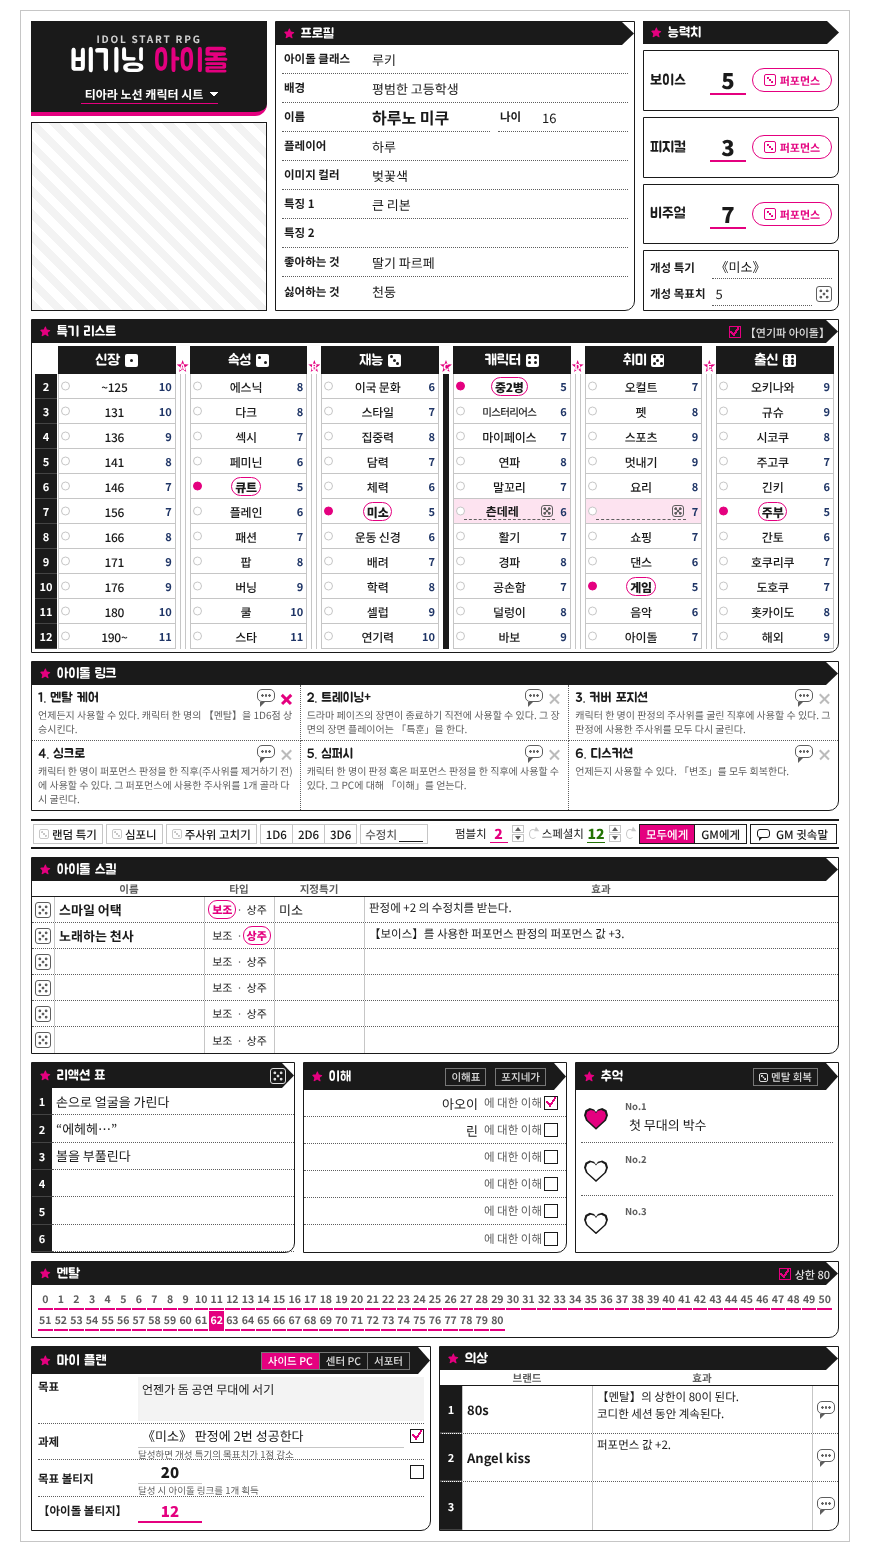
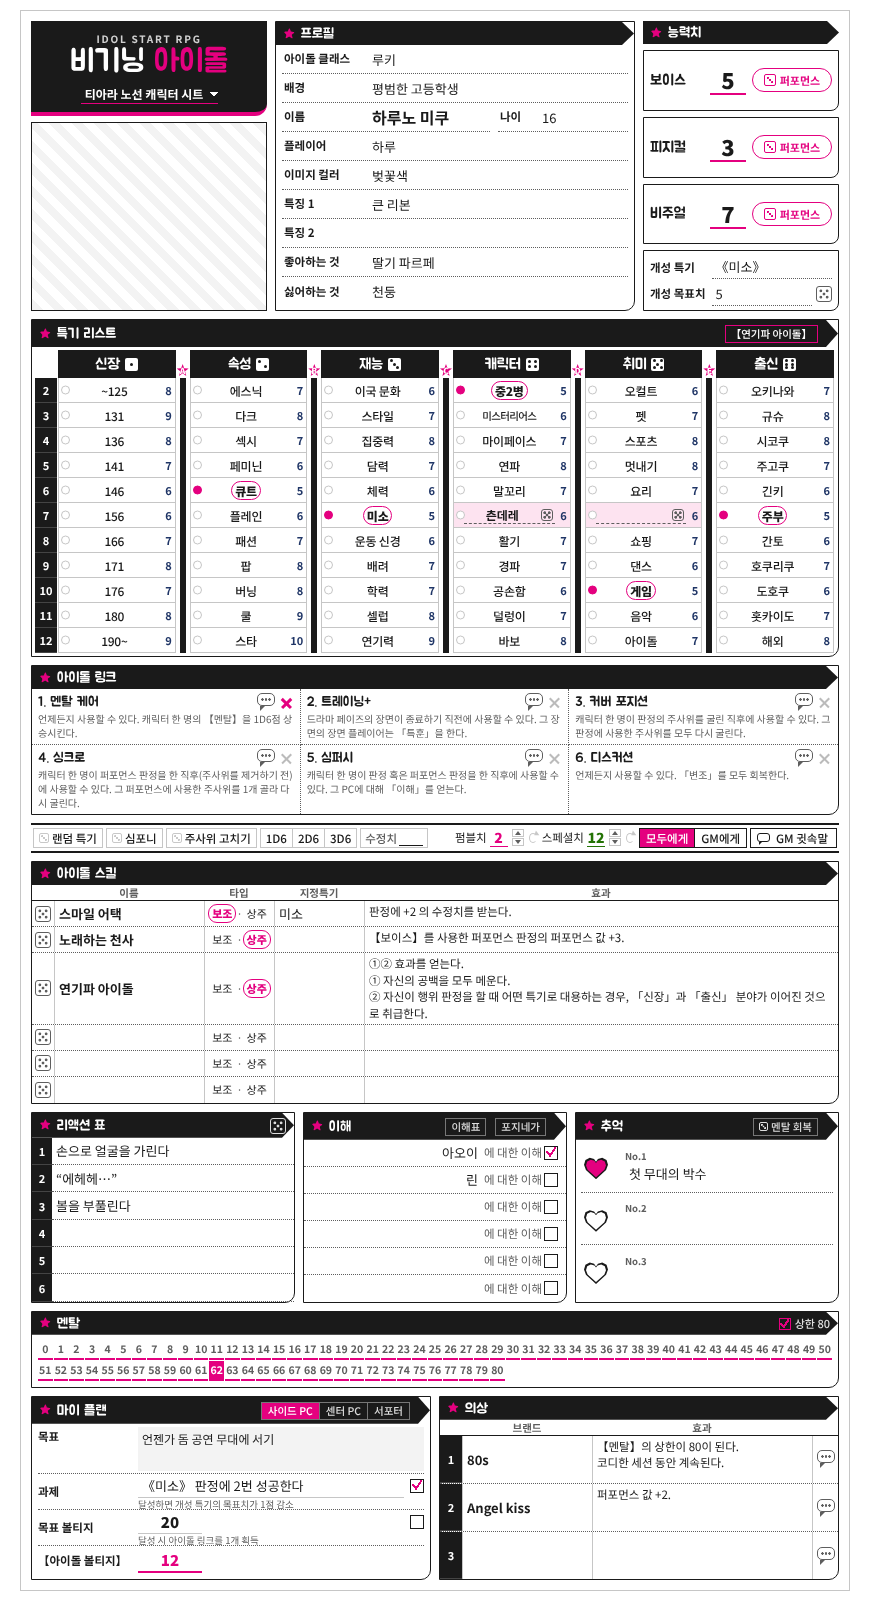
Beginning Idol: acting idol follows the idol skill name (rulebook p.143)
- Typing 연기파 아이돌 in an idol skill name turns it on, as the Shinobigami sheet does with ninpo names
- Effect 1 fills every gap, effect 2 joins height and birthplace with a seam of 1 (rulebook example: height 12 from birthplace 12 = target 6)
- The header checkbox becomes a status tag; tests 88 pass

Claude-Session: https://claude.ai/code/session_0199V9dAANERLdNjnvpJJAzb

diff --git a/beginningidol/roll20/sheet/beginningidol.html b/beginningidol/roll20/sheet/beginningidol.html
@@ -1,9 +1,11 @@
 <!-- 비기닝 아이돌 (한국어) — 세로 830px. 배치: 공식 기본 룰북 캐릭터 시트(티아라 노선 · 크라운 노선)를 세로로, 유닛 시트는 룰북 5·01 도해대로. 목업: beginningidol/roll20/mockup.html
      @ 표시 자리는 build.py 가 채운다. .bi 앞의 숨은 칸은 형제 선택자용 거울:
-     t-route 노선(강조색 · 별 모양 · unit = 유닛 시트) · t-role 사이드 PC / 센터 PC / 서포터 · t-m80 멘탈 상한 80 -->
+     t-route 노선(강조색 · 별 모양 · unit = 유닛 시트) · t-role 사이드 PC / 센터 PC / 서포터 · t-m80 멘탈 상한 80
+     t-act 아이돌 스킬에 【연기파 아이돌】이 있음 (워커가 이름을 보고 켬 → 공백을 모두 칠한 것으로 보임) -->
 <input type="hidden" class="t-route" name="attr_route" value="tiara">
 <input type="hidden" class="t-role" name="attr_pc_role" value="side">
 <input type="hidden" class="t-m80" name="attr_mental80" value="0">
+<input type="hidden" class="t-act" name="attr_acting" value="0">
 <input type="hidden" name="attr_last_dice" value="">
 <input type="hidden" name="attr_last_roll" value="">
 <input type="hidden" name="attr_unit_init" value="0">
@@ -76,9 +78,9 @@
     </div>
   </div>
 
-  <!-- 2단: 특기 리스트 (번호 왼쪽) · 아이돌 링크 (3 칸 × 2 줄). 【연기파 아이돌】 = 왼쪽 끝과 오른쪽 끝이 이어짐 -->
+  <!-- 2단: 특기 리스트 (번호 왼쪽) · 아이돌 링크 (3 칸 × 2 줄). 【연기파 아이돌】 = 공백을 모두 메우고, 신장과 출신이 이어짐 -->
   <div class="pnl pc-only">
-    <div class="hb"><span class="star">&#x2605;</span><span class="star2">&#x2606;</span>특기 리스트<span class="sp"></span><label class="hck"><input type="checkbox" name="attr_acting" value="1"><span></span>【연기파 아이돌】</label></div>
+    <div class="hb"><span class="star">&#x2605;</span><span class="star2">&#x2606;</span>특기 리스트<span class="sp"></span><span class="hon act-on">【연기파 아이돌】</span></div>
     <div class="grid">
 <div class="no corner"></div><div class="fh">신장<span class="pip p1"><i></i></span></div><label class="gap gh"><input type="checkbox" name="attr_gap_a" value="1" title="공백 A 칠하기"><span></span><b>A</b></label><div class="fh">속성<span class="pip p2"><i></i><i></i></span></div><label class="gap gh"><input type="checkbox" name="attr_gap_b" value="1" title="공백 B 칠하기"><span></span><b>B</b></label><div class="fh">재능<span class="pip p3"><i></i><i></i><i></i></span></div><label class="gap gh"><input type="checkbox" name="attr_gap_c" value="1" title="공백 C 칠하기"><span></span><b>C</b></label><div class="fh">캐릭터<span class="pip p4"><i></i><i></i><i></i><i></i></span></div><label class="gap gh"><input type="checkbox" name="attr_gap_d" value="1" title="공백 D 칠하기"><span></span><b>D</b></label><div class="fh">취미<span class="pip p5"><i></i><i></i><i></i><i></i><i></i></span></div><label class="gap gh"><input type="checkbox" name="attr_gap_e" value="1" title="공백 E 칠하기"><span></span><b>E</b></label><div class="fh">출신<span class="pip p6"><i></i><i></i><i></i><i></i><i></i><i></i></span></div>
 <div class="no">2</div><div class="c"><input type="checkbox" class="own" name="attr_A2" value="1" title="습득"><button type="action" class="n" name="act_ra2" title="~125 판정">~125</button><span class="tn" name="attr_A2_value"></span></div><label class="gap"><input type="checkbox" name="attr_gap_a" value="1" title="공백 A 칠하기"><span></span></label><div class="c"><input type="checkbox" class="own" name="attr_B2" value="1" title="습득"><button type="action" class="n" name="act_rb2" title="에스닉 판정">에스닉</button><span class="tn" name="attr_B2_value"></span></div><label class="gap"><input type="checkbox" name="attr_gap_b" value="1" title="공백 B 칠하기"><span></span></label><div class="c"><input type="checkbox" class="own" name="attr_C2" value="1" title="습득"><button type="action" class="n" name="act_rc2" title="이국 문화 판정">이국 문화</button><span class="tn" name="attr_C2_value"></span></div><label class="gap"><input type="checkbox" name="attr_gap_c" value="1" title="공백 C 칠하기"><span></span></label><div class="c"><input type="checkbox" class="own" name="attr_D2" value="1" title="습득"><button type="action" class="n" name="act_rd2" title="중2병 판정">중2병</button><span class="tn" name="attr_D2_value"></span></div><label class="gap"><input type="checkbox" name="attr_gap_d" value="1" title="공백 D 칠하기"><span></span></label><div class="c"><input type="checkbox" class="own" name="attr_E2" value="1" title="습득"><button type="action" class="n" name="act_re2" title="오컬트 판정">오컬트</button><span class="tn" name="attr_E2_value"></span></div><label class="gap"><input type="checkbox" name="attr_gap_e" value="1" title="공백 E 칠하기"><span></span></label><div class="c"><input type="checkbox" class="own" name="attr_F2" value="1" title="습득"><button type="action" class="n" name="act_rf2" title="오키나와 판정">오키나와</button><span class="tn" name="attr_F2_value"></span></div>
@@ -253,8 +255,9 @@ const findSkill = (v, s) => {
 };
 
 // ── 목표치 = 5 + 거리 (세로 한 칸 1, 옆 분야 2 · 칠한 공백을 건너면 1)
-//   【연기파 아이돌】(acting): 왼쪽 끝(신장)과 오른쪽 끝(출신)이 이어짐 — 이음매는 칠하지 않은 공백처럼 2 (OPEN_QUESTIONS)
-const WRAP = 2;
+//   【연기파 아이돌】(acting, 아이돌 스킬 이름으로 켬 · 룰북 143): ① 공백을 모두 메움 ② 신장과 출신이 이어짐
+//   예: 《190~》(신장 12)을 《해외》(출신 12)로 대용하면 목표치 6 → 이음매 1
+const WRAP = 1;
 function dist(a, b, gap, wrap) {
   const lo = Math.min(a.f, b.f), hi = Math.max(a.f, b.f);
   let direct = 0, around = WRAP;
@@ -263,7 +266,7 @@ function dist(a, b, gap, wrap) {
 }
 const TKEYS = [...SKILL_IDS, ...GAPS, ...FREE.map(id => `${id}_name`), 'acting'];
 function targets(v) {
-  const gap = GAPS.map(g => (on1(v[g]) ? 1 : 2)), wrap = on1(v.acting);
+  const wrap = on1(v.acting), gap = GAPS.map(g => (wrap || on1(v[g]) ? 1 : 2));
   const src = SKILL_IDS.filter(id => on1(v[id])).map(pos);
   const out = {};
   SKILL_IDS.forEach(id => { const p = pos(id); out[id] = src.length ? 5 + Math.min(...src.map(s => dist(s, p, gap, wrap))) : null; });   // 룰북 2·02: 목표치 상한 없음
@@ -274,6 +277,12 @@ const calcTargets = () => getAttrs(TKEYS, v => {
   setAttrs(Object.fromEntries(SKILL_IDS.map(id => [`${id}_value`, T[id] == null ? '' : String(T[id])])), { silent: true });
 });
 on([...SKILL_IDS, ...GAPS, 'acting'].map(k => `change:${k.toLowerCase()}`).concat('sheet:opened').join(' '), calcTargets);
+// 아이돌 스킬 이름에 【연기파 아이돌】이 있으면 acting 을 켬 (시노비가미 시트의 인법 이름 방식)
+const SKN = [1, 2, 3, 4, 5, 6].map(i => `sk${i}_name`);
+on(SKN.map(k => `change:${k}`).concat('sheet:opened').join(' '), () => getAttrs([...SKN, 'acting'], v => {
+  const act = SKN.some(k => /연기파\s*아이돌|演技派アイドル/.test(v[k] || '')) ? 1 : 0;
+  if (act !== (on1(v.acting) ? 1 : 0)) setAttrs({ acting: act }, { silent: true }, calcTargets);
+}));
 
 // ── 펌블치 · 스페셜치: 기본 2 · 12 + 손 수정
 // 룰북 2·04: 스페셜치는 13 이상이 되지 않고, 펌블치는 12 이상이 되지 않는다 (1 이하면 펌블 없음)

diff --git a/beginningidol/roll20/src/worker.js b/beginningidol/roll20/src/worker.js
@@ -29,8 +29,9 @@ const findSkill = (v, s) => {
 };
 
 // ── 목표치 = 5 + 거리 (세로 한 칸 1, 옆 분야 2 · 칠한 공백을 건너면 1)
-//   【연기파 아이돌】(acting): 왼쪽 끝(신장)과 오른쪽 끝(출신)이 이어짐 — 이음매는 칠하지 않은 공백처럼 2 (OPEN_QUESTIONS)
-const WRAP = 2;
+//   【연기파 아이돌】(acting, 아이돌 스킬 이름으로 켬 · 룰북 143): ① 공백을 모두 메움 ② 신장과 출신이 이어짐
+//   예: 《190~》(신장 12)을 《해외》(출신 12)로 대용하면 목표치 6 → 이음매 1
+const WRAP = 1;
 function dist(a, b, gap, wrap) {
   const lo = Math.min(a.f, b.f), hi = Math.max(a.f, b.f);
   let direct = 0, around = WRAP;
@@ -39,7 +40,7 @@ function dist(a, b, gap, wrap) {
 }
 const TKEYS = [...SKILL_IDS, ...GAPS, ...FREE.map(id => `${id}_name`), 'acting'];
 function targets(v) {
-  const gap = GAPS.map(g => (on1(v[g]) ? 1 : 2)), wrap = on1(v.acting);
+  const wrap = on1(v.acting), gap = GAPS.map(g => (wrap || on1(v[g]) ? 1 : 2));
   const src = SKILL_IDS.filter(id => on1(v[id])).map(pos);
   const out = {};
   SKILL_IDS.forEach(id => { const p = pos(id); out[id] = src.length ? 5 + Math.min(...src.map(s => dist(s, p, gap, wrap))) : null; });   // 룰북 2·02: 목표치 상한 없음
@@ -50,6 +51,12 @@ const calcTargets = () => getAttrs(TKEYS, v => {
   setAttrs(Object.fromEntries(SKILL_IDS.map(id => [`${id}_value`, T[id] == null ? '' : String(T[id])])), { silent: true });
 });
 on([...SKILL_IDS, ...GAPS, 'acting'].map(k => `change:${k.toLowerCase()}`).concat('sheet:opened').join(' '), calcTargets);
+// 아이돌 스킬 이름에 【연기파 아이돌】이 있으면 acting 을 켬 (시노비가미 시트의 인법 이름 방식)
+const SKN = [1, 2, 3, 4, 5, 6].map(i => `sk${i}_name`);
+on(SKN.map(k => `change:${k}`).concat('sheet:opened').join(' '), () => getAttrs([...SKN, 'acting'], v => {
+  const act = SKN.some(k => /연기파\s*아이돌|演技派アイドル/.test(v[k] || '')) ? 1 : 0;
+  if (act !== (on1(v.acting) ? 1 : 0)) setAttrs({ acting: act }, { silent: true }, calcTargets);
+}));
 
 // ── 펌블치 · 스페셜치: 기본 2 · 12 + 손 수정
 // 룰북 2·04: 스페셜치는 13 이상이 되지 않고, 펌블치는 12 이상이 되지 않는다 (1 이하면 펌블 없음)

diff --git a/beginningidol/roll20/src/beginningidol.src.html b/beginningidol/roll20/src/beginningidol.src.html
@@ -1,9 +1,11 @@
 <!-- 비기닝 아이돌 (한국어) — 세로 830px. 배치: 공식 기본 룰북 캐릭터 시트(티아라 노선 · 크라운 노선)를 세로로, 유닛 시트는 룰북 5·01 도해대로. 목업: beginningidol/roll20/mockup.html
      @ 표시 자리는 build.py 가 채운다. .bi 앞의 숨은 칸은 형제 선택자용 거울:
-     t-route 노선(강조색 · 별 모양 · unit = 유닛 시트) · t-role 사이드 PC / 센터 PC / 서포터 · t-m80 멘탈 상한 80 -->
+     t-route 노선(강조색 · 별 모양 · unit = 유닛 시트) · t-role 사이드 PC / 센터 PC / 서포터 · t-m80 멘탈 상한 80
+     t-act 아이돌 스킬에 【연기파 아이돌】이 있음 (워커가 이름을 보고 켬 → 공백을 모두 칠한 것으로 보임) -->
 <input type="hidden" class="t-route" name="attr_route" value="tiara">
 <input type="hidden" class="t-role" name="attr_pc_role" value="side">
 <input type="hidden" class="t-m80" name="attr_mental80" value="0">
+<input type="hidden" class="t-act" name="attr_acting" value="0">
 <input type="hidden" name="attr_last_dice" value="">
 <input type="hidden" name="attr_last_roll" value="">
 <input type="hidden" name="attr_unit_init" value="0">
@@ -67,9 +69,9 @@
     </div>
   </div>
 
-  <!-- 2단: 특기 리스트 (번호 왼쪽) · 아이돌 링크 (3 칸 × 2 줄). 【연기파 아이돌】 = 왼쪽 끝과 오른쪽 끝이 이어짐 -->
+  <!-- 2단: 특기 리스트 (번호 왼쪽) · 아이돌 링크 (3 칸 × 2 줄). 【연기파 아이돌】 = 공백을 모두 메우고, 신장과 출신이 이어짐 -->
   <div class="pnl pc-only">
-    <div class="hb"><span class="star">&#x2605;</span><span class="star2">&#x2606;</span>특기 리스트<span class="sp"></span><label class="hck"><input type="checkbox" name="attr_acting" value="1"><span></span>【연기파 아이돌】</label></div>
+    <div class="hb"><span class="star">&#x2605;</span><span class="star2">&#x2606;</span>특기 리스트<span class="sp"></span><span class="hon act-on">【연기파 아이돌】</span></div>
     <div class="grid">
 <!--@SKILLS-->
     </div>

diff --git a/beginningidol/roll20/sheet/beginningidol.css b/beginningidol/roll20/sheet/beginningidol.css
@@ -57,6 +57,8 @@
 .t-role[value="center"] ~ .bi .no-center,.t-role:not([value="center"]) ~ .bi .center-only{display:none}
 .t-role[value="support"] ~ .bi .no-support,.t-role:not([value="support"]) ~ .bi .support-only{display:none}
 .t-m80:not([value="1"]) ~ .bi .ment label.mt.hi{display:none}
+.t-act:not([value="1"]) ~ .bi .act-on{display:none}
+.t-act[value="1"] ~ .bi label.gap span{background:var(--ink);border-color:var(--ink)}
 
 /* Roll20 base css resets (bootstrap inputs, buttons, labels) */
 .bi input[type=text],.bi input[type=number],.bi textarea,.bi select{display:block;width:100%;height:auto;min-width:0;margin:0;padding:0 4px;background:transparent;color:var(--ink);border:0;border-radius:0;box-shadow:none;font:inherit;line-height:1.4;outline:0}
@@ -237,7 +239,8 @@ body.sheet-darkmode .bi .logo select{color:#ffffff}
 .bi .ment label.mt span{display:block;text-align:center;font:700 10.5px/18px var(--sans);border-bottom:2px solid var(--accent);color:var(--sub)}
 .bi .ment label.mt input:checked + span{background:var(--accent);color:#ffffff}
 
-/* head bar controls: toggle with V (acting idol, mental cap 80), small text buttons (tables, memory, conditions), PC role switch */
+/* head bar controls: toggle with V (mental cap 80), status tag (acting idol), small text buttons (tables, memory, conditions), PC role switch */
+.bi .hb .hon{margin-right:12px;padding:0 5px;border:1px solid var(--accent);color:#ffffff;font:500 10.5px/16px var(--sans)}
 .bi .hb label.hck{display:inline-flex;align-items:center;gap:4px;width:auto;margin:0;padding:0;font:500 11px/1 var(--sans);color:#dddddd;cursor:pointer}
 .bi .hb label.hck input{display:none}
 .bi .hb label.hck span{display:inline-block;flex:none;width:12px;height:12px;border:1.3px solid #bbbbbb}

diff --git a/beginningidol/roll20/src/beginningidol.src.css b/beginningidol/roll20/src/beginningidol.src.css
@@ -57,6 +57,8 @@
 .t-role[value="center"] ~ .bi .no-center,.t-role:not([value="center"]) ~ .bi .center-only{display:none}
 .t-role[value="support"] ~ .bi .no-support,.t-role:not([value="support"]) ~ .bi .support-only{display:none}
 .t-m80:not([value="1"]) ~ .bi .ment label.mt.hi{display:none}
+.t-act:not([value="1"]) ~ .bi .act-on{display:none}
+.t-act[value="1"] ~ .bi label.gap span{background:var(--ink);border-color:var(--ink)}
 
 /* Roll20 base css resets (bootstrap inputs, buttons, labels) */
 .bi input[type=text],.bi input[type=number],.bi textarea,.bi select{display:block;width:100%;height:auto;min-width:0;margin:0;padding:0 4px;background:transparent;color:var(--ink);border:0;border-radius:0;box-shadow:none;font:inherit;line-height:1.4;outline:0}
@@ -237,7 +239,8 @@ body.sheet-darkmode .bi .logo select{color:#ffffff}
 .bi .ment label.mt span{display:block;text-align:center;font:700 10.5px/18px var(--sans);border-bottom:2px solid var(--accent);color:var(--sub)}
 .bi .ment label.mt input:checked + span{background:var(--accent);color:#ffffff}
 
-/* head bar controls: toggle with V (acting idol, mental cap 80), small text buttons (tables, memory, conditions), PC role switch */
+/* head bar controls: toggle with V (mental cap 80), status tag (acting idol), small text buttons (tables, memory, conditions), PC role switch */
+.bi .hb .hon{margin-right:12px;padding:0 5px;border:1px solid var(--accent);color:#ffffff;font:500 10.5px/16px var(--sans)}
 .bi .hb label.hck{display:inline-flex;align-items:center;gap:4px;width:auto;margin:0;padding:0;font:500 11px/1 var(--sans);color:#dddddd;cursor:pointer}
 .bi .hb label.hck input{display:none}
 .bi .hb label.hck span{display:inline-block;flex:none;width:12px;height:12px;border:1.3px solid #bbbbbb}

diff --git a/beginningidol/roll20/test/test.js b/beginningidol/roll20/test/test.js
@@ -119,12 +119,16 @@ const pick = (o, ...ks) => Object.fromEntries(ks.map(k => [k, o[k]]));
   const keep = x => { errAll.push(...x.log.filter(l => l[0] === 'ERROR')); return x; };
   keep(s);
 
-  // ── 【연기파 아이돌】: 왼쪽 끝 · 오른쪽 끝이 이어짐 (이음매 2)
+  // ── 【연기파 아이돌】: 아이돌 스킬 이름으로 켬 → 공백을 모두 메우고 신장 · 출신이 이어짐 (룰북 예: 신장 12 → 출신 12 = 6)
   s = keep(makeSim(HTML)); s.open(); await s.settle();
-  s.set('A2', '1'); await s.settle();
-  eq('no wrap: F2 = 5 + 10', g(s, 'F2_value', 'E2_value'), ['15', '13']);
-  s.set('acting', '1'); await s.settle();
-  eq('wrap: F2 = 5 + 2, E2 = 5 + 4', g(s, 'F2_value', 'E2_value', 'C2_value'), ['7', '9', '9']);
+  s.set('A12', '1'); await s.settle();
+  eq('no acting: F12 = 5 + 10', g(s, 'acting', 'F12_value', 'C12_value'), ['0', '15', '9']);
+  s.set('sk3_name', '【연기파 아이돌】'); await s.settle();
+  eq('acting on from skill name', g(s, 'acting'), ['1']);
+  eq('acting: F12 = 6, E12 = 7, C12 = 7 (gaps filled)', g(s, 'F12_value', 'E12_value', 'C12_value', 'F10_value'), ['6', '7', '7', '8']);
+  s.set('sk3_name', '이국의 매력'); await s.settle();
+  eq('acting off when the skill is gone', g(s, 'acting', 'F12_value'), ['0', '15']);
+  eq('no acting checkbox, status tag only', [/type="checkbox" name="attr_acting"/.test(HTML), /class="hon act-on"/.test(HTML)], [false, true]);
 
   // ── 주사위 고치기: 퍼포먼스 (0 = 다시 굴림) · 판정 (앞자리 0) · 굴림 없음
   s = keep(makeSim(HTML, { dice: [2, 5, 1, 5, 6, /* x1~x5 */ 3, 3, 3, 4, 3], queries: { '주사위 눈': '25106' } })); s.open(); await s.settle();

diff --git a/beginningidol/roll20/OPEN_QUESTIONS.md b/beginningidol/roll20/OPEN_QUESTIONS.md
@@ -4,7 +4,7 @@
   다시 굴리기 · 【추억】으로 눈 바꾸기 · 싱크로 · 커버 포지션은 판정 띠의 「주사위 고치기」로 (마지막 눈을 고쳐 적고, 다시 굴릴 눈은 0).
 - 룰북 반영 (2·02 · 2·04): 목표치 상한 없음, 스페셜치 최대 12 · 펌블치 최대 11, 스페셜 · 펌블 때 【추억】 1개 · 펌블 표, 【일예돌파】 = 개성 특기 · 개성 목표치.
 - 출신 분야의 「〜地方」은 칸 폭 때문에 '지방'을 뺐다 (규슈 · 시코쿠 …) — 용어 검토 때 확인.
-- 【연기파 아이돌】 (2·02 곁주): 「왼쪽 끝과 오른쪽 끝을 이어진 것으로 센다」만 있고 이음매의 칸 수는 없다 → 칠하지 않은 공백처럼 2 로 계산 (worker.js 의 WRAP). 1 이면 그 값만 바꾸면 됨.
+- ~~【연기파 아이돌】 이음매 칸 수~~ → 룰북 143 확인: ① 공백을 모두 메움 ② 신장 · 출신이 이어짐 (신장 12 → 출신 12 = 목표치 6, 이음매 1). 아이돌 스킬 이름으로 자동 적용.
 - D66 표 (이해표 · 포지네가 이해표 · 서포트 대응표): 표에 11~66 중 작은 눈이 앞인 21 칸만 있어 작은 눈을 십의 자리로 읽음.
 - 서포터: 퍼포먼스 판정에서 능력치를 모두 1 로 봄 · 마이 플랜은 목표만 (과제 · 목표 볼티지 · 【아이돌 볼티지】 없음, 5·03). 과제 달성의 개성 목표치 −1 은 사이드 PC 만.
 - 번역 확인: 炎上 → 「논란」, あざとい → 「여우 같아」, 幕間 → 「막간」, 運命共同体 → 「운명공동체」, ポジネガ理解表 → 「포지네가 이해표」.

diff --git a/beginningidol/roll20/FIELDS.md b/beginningidol/roll20/FIELDS.md
@@ -15,7 +15,7 @@
 | `D7_name` · `E7_name` | 캐릭터 7 · 취미 7 (직접 적는 특기) | 글 |
 | `A2_value` … | 목표치 (워커가 계산) | 숫자 / 빈칸 |
 | `gap_a` … `gap_e` | 공백 칠하기 (a = 신장 \| 속성 … e = 취미 \| 출신) | `1` / 빈칸 |
-| `acting` | 【연기파 아이돌】 — 특기 리스트 왼쪽 끝 · 오른쪽 끝 연결 | `1` / 빈칸 |
+| `acting` | 아이돌 스킬에 【연기파 아이돌】이 있음 (워커가 이름을 보고 켬) — 공백을 모두 메우고 신장 · 출신이 이어짐 | `1` / `0` |
 | `link1_used` … `link6_used` | 아이돌 링크 사용함 (인쇄된 6 개) | `1` / 빈칸 |
 | `sk1`~`sk6` `_name` · `_type` · `_skill` · `_effect` | 아이돌 스킬 (타입 `보조` / `상주`) | 글 |
 | `re1` … `re6` | 리액션 표 1~6 | 글 |
